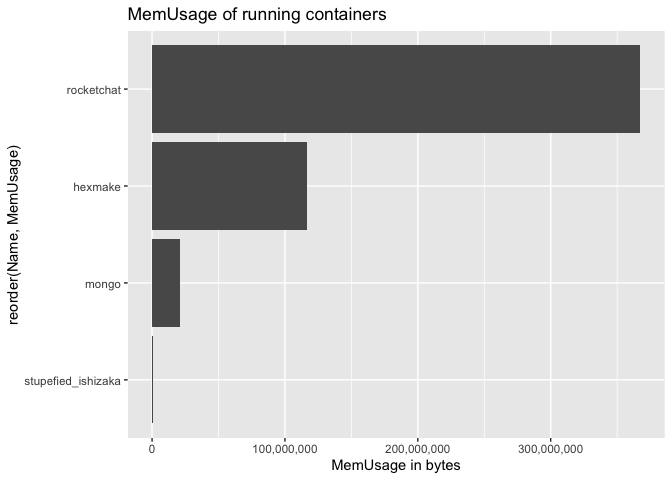
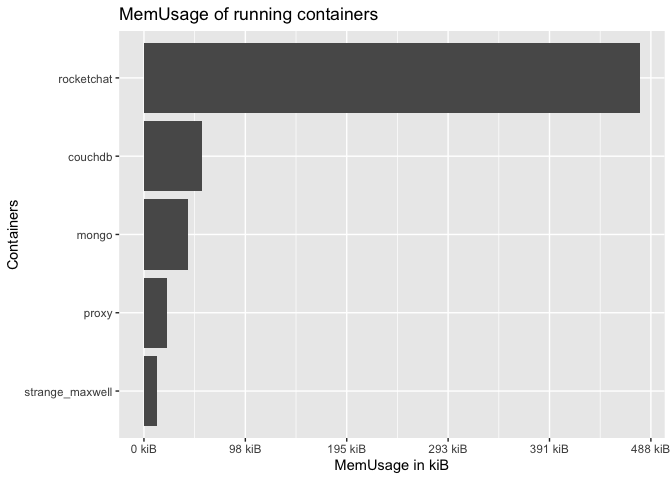
redoc

diff --git a/README.md b/README.md
@@ -36,17 +36,17 @@ By default, `dockerstats()` returns the stats for running containers.
 ``` r
 dockerstats()
 #>      Container            Name           ID CPUPerc MemUsage MemLimit MemPerc
-#> 1 144087c5fbaf         couchdb 144087c5fbaf    4.83 54.33MiB 12.69GiB    0.42
-#> 2 5017ccedf5d5 strange_maxwell 5017ccedf5d5    0.13 12.09MiB 12.69GiB    0.09
+#> 1 144087c5fbaf         couchdb 144087c5fbaf    6.85 55.75MiB 12.69GiB    0.43
+#> 2 5017ccedf5d5 strange_maxwell 5017ccedf5d5    0.10 12.09MiB 12.69GiB    0.09
 #> 3 ca323ae39e42           proxy ca323ae39e42    0.00 21.75MiB 12.69GiB    0.17
-#> 4 1c32d35562fb      rocketchat 1c32d35562fb    1.03 483.8MiB 12.69GiB    3.72
-#> 5 9e9605a015d4           mongo 9e9605a015d4    2.20 42.73MiB 12.69GiB    0.33
+#> 4 1c32d35562fb      rocketchat 1c32d35562fb    0.16 477.8MiB 12.69GiB    3.68
+#> 5 9e9605a015d4           mongo 9e9605a015d4    2.23 42.73MiB 12.69GiB    0.33
 #>     NetI   NetO BlockI BlockO PIDs         record_time extra
-#> 1  149kB  203kB     0B     0B   30 2020-04-23 21:59:02      
-#> 2 2.68MB 3.36MB     0B     0B    6 2020-04-23 21:59:02      
-#> 3 9.04kB 1.84kB     0B     0B   11 2020-04-23 21:59:02      
-#> 4   87MB 70.3MB     0B     0B   12 2020-04-23 21:59:02      
-#> 5 70.2MB 86.8MB     0B     0B   55 2020-04-23 21:59:02
+#> 1  150kB  203kB     0B     0B   30 2020-04-24 11:59:21      
+#> 2 2.68MB 3.36MB     0B     0B    6 2020-04-24 11:59:21      
+#> 3 9.73kB 1.84kB     0B     0B   11 2020-04-24 11:59:21      
+#> 4  107MB 86.8MB     0B     0B   12 2020-04-24 11:59:21      
+#> 5 86.6MB  107MB     0B     0B   55 2020-04-24 11:59:21
 ```
 
 You can return stats for all containers (not just running)
@@ -54,8 +54,8 @@ You can return stats for all containers (not just running)
 ``` r
 dockerstats(all = TRUE)
 #>       Container                    Name           ID CPUPerc MemUsage MemLimit
-#> 1  144087c5fbaf                 couchdb 144087c5fbaf    1.84 54.33MiB 12.69GiB
-#> 2  5017ccedf5d5         strange_maxwell 5017ccedf5d5    0.08 12.09MiB 12.69GiB
+#> 1  144087c5fbaf                 couchdb 144087c5fbaf    1.61 55.75MiB 12.69GiB
+#> 2  5017ccedf5d5         strange_maxwell 5017ccedf5d5    0.14 12.09MiB 12.69GiB
 #> 3  a25f4ee0fb8d         elastic_khayyam a25f4ee0fb8d    0.00       0B       0B
 #> 4  04e001a4b1db       sad_proskuriakova 04e001a4b1db    0.00       0B       0B
 #> 5  3aa1aea8186e         elegant_dewdney 3aa1aea8186e    0.00       0B       0B
@@ -90,47 +90,47 @@ dockerstats(all = TRUE)
 #> 34 82b75a1bdbe8                    jack 82b75a1bdbe8    0.00       0B       0B
 #> 35 5b1197c61bfb                   login 5b1197c61bfb    0.00       0B       0B
 #> 36 ca323ae39e42                   proxy ca323ae39e42    0.00 21.75MiB 12.69GiB
-#> 37 1c32d35562fb              rocketchat 1c32d35562fb    0.93 483.9MiB 12.69GiB
-#> 38 9e9605a015d4                   mongo 9e9605a015d4    2.16 42.69MiB 12.69GiB
+#> 37 1c32d35562fb              rocketchat 1c32d35562fb    0.28   477MiB 12.69GiB
+#> 38 9e9605a015d4                   mongo 9e9605a015d4    1.67 42.73MiB 12.69GiB
 #>    MemPerc   NetI   NetO BlockI BlockO PIDs         record_time extra
-#> 1     0.42  149kB  203kB     0B     0B   30 2020-04-23 21:59:04      
-#> 2     0.09 2.68MB 3.36MB     0B     0B    6 2020-04-23 21:59:04      
-#> 3     0.00     0B     0B     0B     0B    0 2020-04-23 21:59:04      
-#> 4     0.00     0B     0B     0B     0B    0 2020-04-23 21:59:04      
-#> 5     0.00     0B     0B     0B     0B    0 2020-04-23 21:59:04      
-#> 6     0.00     0B     0B     0B     0B    0 2020-04-23 21:59:04      
-#> 7     0.00     0B     0B     0B     0B    0 2020-04-23 21:59:04      
-#> 8     0.00     0B     0B     0B     0B    0 2020-04-23 21:59:04      
-#> 9     0.00     0B     0B     0B     0B    0 2020-04-23 21:59:04      
-#> 10    0.00     0B     0B     0B     0B    0 2020-04-23 21:59:04      
-#> 11    0.00     0B     0B     0B     0B    0 2020-04-23 21:59:04      
-#> 12    0.00     0B     0B     0B     0B    0 2020-04-23 21:59:04      
-#> 13    0.00     0B     0B     0B     0B    0 2020-04-23 21:59:04      
-#> 14    0.00     0B     0B     0B     0B    0 2020-04-23 21:59:04      
-#> 15    0.00     0B     0B     0B     0B    0 2020-04-23 21:59:04      
-#> 16    0.00     0B     0B     0B     0B    0 2020-04-23 21:59:04      
-#> 17    0.00     0B     0B     0B     0B    0 2020-04-23 21:59:04      
-#> 18    0.00     0B     0B     0B     0B    0 2020-04-23 21:59:04      
-#> 19    0.00     0B     0B     0B     0B    0 2020-04-23 21:59:04      
-#> 20    0.00     0B     0B     0B     0B    0 2020-04-23 21:59:04      
-#> 21    0.00     0B     0B     0B     0B    0 2020-04-23 21:59:04      
-#> 22    0.00     0B     0B     0B     0B    0 2020-04-23 21:59:04      
-#> 23    0.00     0B     0B     0B     0B    0 2020-04-23 21:59:04      
-#> 24    0.00     0B     0B     0B     0B    0 2020-04-23 21:59:04      
-#> 25    0.00     0B     0B     0B     0B    0 2020-04-23 21:59:04      
-#> 26    0.00     0B     0B     0B     0B    0 2020-04-23 21:59:04      
-#> 27    0.00     0B     0B     0B     0B    0 2020-04-23 21:59:04      
-#> 28    0.00     0B     0B     0B     0B    0 2020-04-23 21:59:04      
-#> 29    0.00     0B     0B     0B     0B    0 2020-04-23 21:59:04      
-#> 30    0.00     0B     0B     0B     0B    0 2020-04-23 21:59:04      
-#> 31    0.00     0B     0B     0B     0B    0 2020-04-23 21:59:04      
-#> 32    0.00     0B     0B     0B     0B    0 2020-04-23 21:59:04      
-#> 33    0.00     0B     0B     0B     0B    0 2020-04-23 21:59:04      
-#> 34    0.00     0B     0B     0B     0B    0 2020-04-23 21:59:04      
-#> 35    0.00     0B     0B     0B     0B    0 2020-04-23 21:59:04      
-#> 36    0.17 9.04kB 1.84kB     0B     0B   11 2020-04-23 21:59:04      
-#> 37    3.72   87MB 70.3MB     0B     0B   12 2020-04-23 21:59:04      
-#> 38    0.33 70.2MB 86.8MB     0B     0B   55 2020-04-23 21:59:04
+#> 1     0.43  150kB  203kB     0B     0B   30 2020-04-24 11:59:23      
+#> 2     0.09 2.68MB 3.36MB     0B     0B    6 2020-04-24 11:59:23      
+#> 3     0.00     0B     0B     0B     0B    0 2020-04-24 11:59:23      
+#> 4     0.00     0B     0B     0B     0B    0 2020-04-24 11:59:23      
+#> 5     0.00     0B     0B     0B     0B    0 2020-04-24 11:59:23      
+#> 6     0.00     0B     0B     0B     0B    0 2020-04-24 11:59:23      
+#> 7     0.00     0B     0B     0B     0B    0 2020-04-24 11:59:23      
+#> 8     0.00     0B     0B     0B     0B    0 2020-04-24 11:59:23      
+#> 9     0.00     0B     0B     0B     0B    0 2020-04-24 11:59:23      
+#> 10    0.00     0B     0B     0B     0B    0 2020-04-24 11:59:23      
+#> 11    0.00     0B     0B     0B     0B    0 2020-04-24 11:59:23      
+#> 12    0.00     0B     0B     0B     0B    0 2020-04-24 11:59:23      
+#> 13    0.00     0B     0B     0B     0B    0 2020-04-24 11:59:23      
+#> 14    0.00     0B     0B     0B     0B    0 2020-04-24 11:59:23      
+#> 15    0.00     0B     0B     0B     0B    0 2020-04-24 11:59:23      
+#> 16    0.00     0B     0B     0B     0B    0 2020-04-24 11:59:23      
+#> 17    0.00     0B     0B     0B     0B    0 2020-04-24 11:59:23      
+#> 18    0.00     0B     0B     0B     0B    0 2020-04-24 11:59:23      
+#> 19    0.00     0B     0B     0B     0B    0 2020-04-24 11:59:23      
+#> 20    0.00     0B     0B     0B     0B    0 2020-04-24 11:59:23      
+#> 21    0.00     0B     0B     0B     0B    0 2020-04-24 11:59:23      
+#> 22    0.00     0B     0B     0B     0B    0 2020-04-24 11:59:23      
+#> 23    0.00     0B     0B     0B     0B    0 2020-04-24 11:59:23      
+#> 24    0.00     0B     0B     0B     0B    0 2020-04-24 11:59:23      
+#> 25    0.00     0B     0B     0B     0B    0 2020-04-24 11:59:23      
+#> 26    0.00     0B     0B     0B     0B    0 2020-04-24 11:59:23      
+#> 27    0.00     0B     0B     0B     0B    0 2020-04-24 11:59:23      
+#> 28    0.00     0B     0B     0B     0B    0 2020-04-24 11:59:23      
+#> 29    0.00     0B     0B     0B     0B    0 2020-04-24 11:59:23      
+#> 30    0.00     0B     0B     0B     0B    0 2020-04-24 11:59:23      
+#> 31    0.00     0B     0B     0B     0B    0 2020-04-24 11:59:23      
+#> 32    0.00     0B     0B     0B     0B    0 2020-04-24 11:59:23      
+#> 33    0.00     0B     0B     0B     0B    0 2020-04-24 11:59:23      
+#> 34    0.00     0B     0B     0B     0B    0 2020-04-24 11:59:23      
+#> 35    0.00     0B     0B     0B     0B    0 2020-04-24 11:59:23      
+#> 36    0.17 9.73kB 1.84kB     0B     0B   11 2020-04-24 11:59:23      
+#> 37    3.67  107MB 86.8MB     0B     0B   12 2020-04-24 11:59:23      
+#> 38    0.33 86.6MB  107MB     0B     0B   55 2020-04-24 11:59:23
 ```
 
 Or from a subset of containers:
@@ -138,11 +138,11 @@ Or from a subset of containers:
 ``` r
 dockerstats("mongo", "proxy")
 #>   Container  Name           ID CPUPerc MemUsage MemLimit MemPerc   NetI   NetO
-#> 1     mongo mongo 9e9605a015d4    1.45  42.8MiB 12.69GiB    0.33 70.2MB 86.8MB
-#> 2     proxy proxy ca323ae39e42    0.00 21.75MiB 12.69GiB    0.17 9.04kB 1.84kB
+#> 1     mongo mongo 9e9605a015d4    1.74 42.83MiB 12.69GiB    0.33 86.6MB  107MB
+#> 2     proxy proxy ca323ae39e42    0.00 21.75MiB 12.69GiB    0.17 9.73kB 1.84kB
 #>   BlockI BlockO PIDs         record_time extra
-#> 1     0B     0B   55 2020-04-23 21:59:06      
-#> 2     0B     0B   11 2020-04-23 21:59:06
+#> 1     0B     0B   55 2020-04-24 11:59:26      
+#> 2     0B     0B   11 2020-04-24 11:59:26
 ```
 
 The `extra` param is used to add extra information to the recording,
@@ -210,6 +210,30 @@ dockerstats_recurse(
 )
 ```
 
+Kill the container once done
+
+``` r
+system("docker kill hexmake")
+```
+
+## Byte conversions
+
+To handle the `MemUsage` columns, expressed as `byte`, `{dockerstats}`
+provides a series of functions to convert to byte, kib, mib or gib.
+
+The unit is kept in `attr("units")` of the result
+
+``` r
+dock_stats <- dockerstats()
+dock_stats$MemUsag
+#> [1] "55.75MiB" "12.09MiB" "21.75MiB" "477.6MiB" "42.73MiB"
+# Convert to kib
+to_kib(dock_stats$MemUsag)
+#> [1]  57088.00  12380.16  22272.00 489062.40  43755.52
+#> attr(,"unit")
+#> [1] "kib"
+```
+
 ## How columns are transformed
 
   - `CPUPerc` and `MemPerc` are stripped from the trailing `%`, and are
@@ -226,20 +250,10 @@ dockerstats_recurse(
 You can call `as_fs_byte()` from the `{fs}` package to manipulate the
 columns which are expressed in bytes.
 
-Note that you’ll need to install the `{fs}` package (it’s not imported
-by `{dockerstats}`).
-
 ``` r
 dock_stats <- dockerstats()
 
-sort(dock_stats$MemUsage)
-#> [1] "107.4MiB" "12.09MiB" "21.75MiB" "42.71MiB" "483.6MiB" "54.34MiB"
-
-dock_stats$MemUsage <- fs::as_fs_bytes(
-  dock_stats$MemUsage
-)
-sort(dock_stats$MemUsage)
-#>  12.1M  21.8M  42.7M  54.3M 107.4M 483.6M
+dock_stats$MemUsage <- to_kib(dock_stats$MemUsag)
 ```
 
 ``` r
@@ -248,19 +262,17 @@ ggplot(
   dock_stats, 
   aes(
     reorder(Name, MemUsage), 
-    MemUsage)
+    MemUsage
+  )
 ) + 
   geom_col() +
-  scale_y_continuous(labels = scales::label_bytes()) + 
+  scale_y_continuous(labels = scales::label_bytes(units = "kiB")) + 
   coord_flip() + 
   labs(
     title = "MemUsage of running containers", 
-    y = "MemUsage in bytes"
+    y = "MemUsage in kiB", 
+    x = "Containers"
   )
 ```
 
-<img src="man/figures/README-unnamed-chunk-12-1.png" width="100%" />
-
-``` r
-system("docker kill hexmake")
-```
+<img src="man/figures/README-unnamed-chunk-14-1.png" width="100%" />
